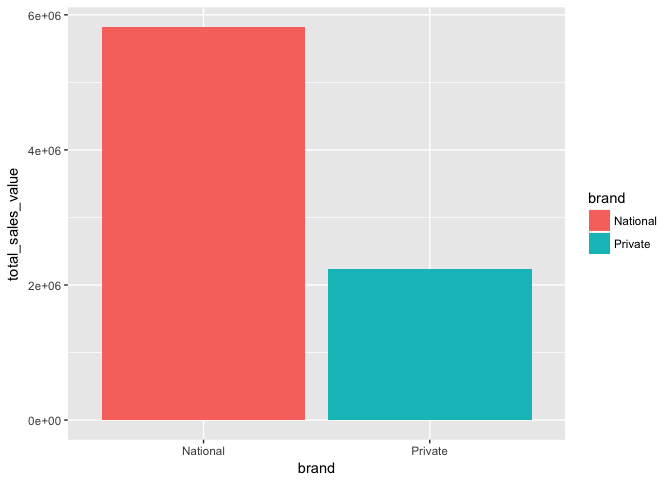
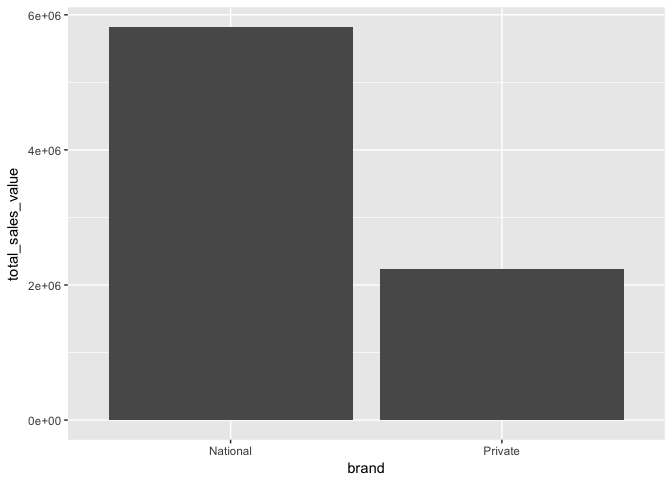
Removing redundancy in question three

diff --git a/solutions/02-data-visualization-solutions.md b/solutions/02-data-visualization-solutions.md
@@ -65,7 +65,7 @@ my_transaction_data %>%
   summarize(total_sales_value = sum(sales_value)) %>%
   ggplot() + 
   geom_bar(
-    mapping = aes(x = brand, y = total_sales_value, fill = brand), 
+    mapping = aes(x = brand, y = total_sales_value), 
     stat = 'identity'
   )
 ```
